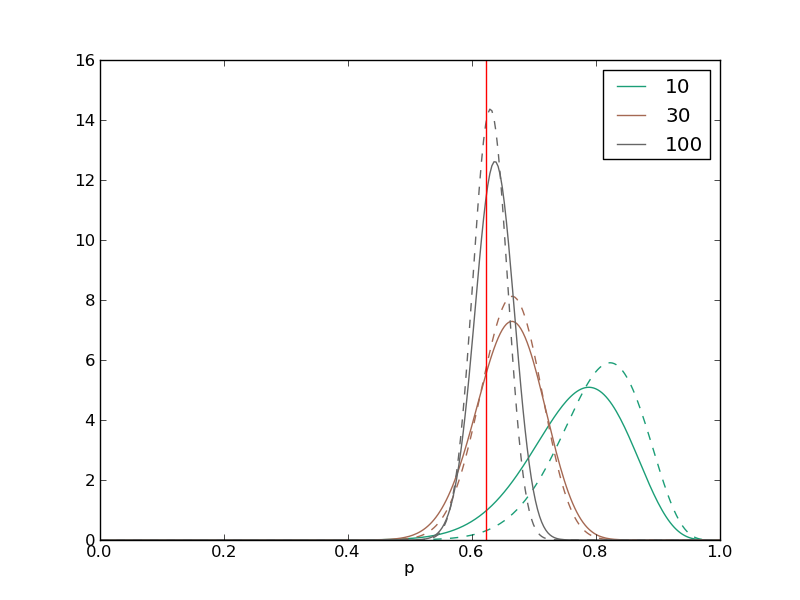
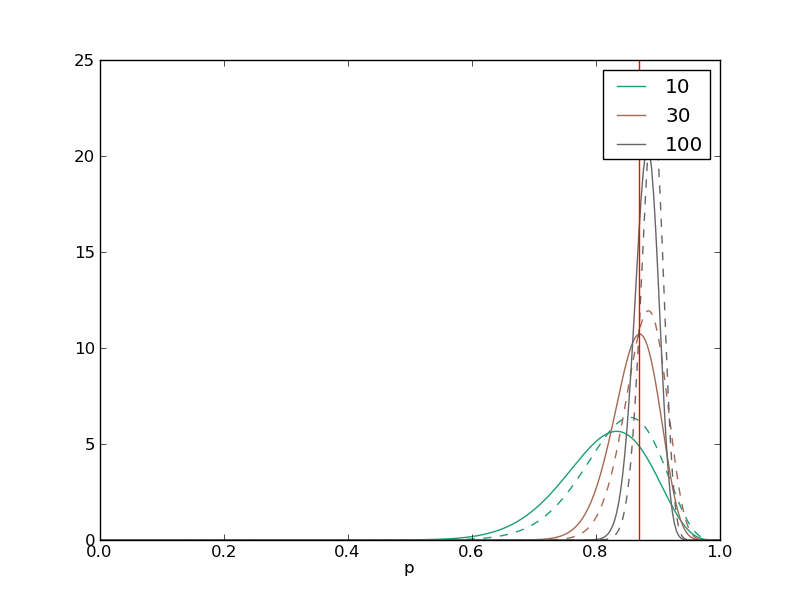
working variable N

diff --git a/binary_variable_pool.py b/binary_variable_pool.py
@@ -1,6 +1,7 @@
 
 # simple binary decision making
-# from a fixed pool of progenitors
+# from a variable pool of progenitors
+# (distribution of N progenitors per well)
 #
 # each data sample only indicates
 # the categories fulfilled: 1, 2, or 1&2
@@ -11,18 +12,25 @@ from scipy.misc import comb
 from scipy.stats import beta as beta_distr
 import matplotlib.cm as cm
 from scipy.special import beta as beta_func
+from scipy.signal import convolve2d
+from scipy.signal import fftconvolve
 
 # data set will be contained in the multi-dimensional array
 # D[0][1] = # trials with only category 2 fulfilled
 
-# simulate binary decision process with fixed progenitor pool
-# N: number of progenitors per trial
+# simulate binary decision process with variable progenitor pool
 # T: number of trials
 # p: probability a progenitor differentiates into state 1
-def binary_fixed_sim(N,T,p):
+# pN: array of probabilities of obtaining N progenitors in a well
+#     p(N = 0) should be equal to 0
+def binary_variable_sim(T,p,pN):
     D = np.zeros((2,2))
+    Ntotal = 0
     total = 0
     for i in xrange(T):
+        u = np.random.uniform()
+        # this is a hack to select N = i with prob pN[i]
+        N = min(np.array(range(len(pN)))[u < np.cumsum(pN)])
         t = np.random.binomial(N,p)
         if t == N:
             D[1][0] += 1
@@ -30,18 +38,24 @@ def binary_fixed_sim(N,T,p):
             D[0][1] += 1
         else:
             D[1][1] += 1
+        Ntotal += N
         total += t
-    return D,total
+    return D,Ntotal,total
 
-class BinaryFixedModel:
+class BinaryVariableModel:
     # in init perform fit
-    def __init__(self,D,N,alpha=1.5,beta=1.5):
+    # going to assume pN is already reduced (large N combined in single category)
+    # or approximated so that we're not looking over 
+    # an extremely large number of N possibilities
+    # 
+    # pN[i] should be the probability of N = i
+    def __init__(self,D,pN,alpha=1.5,beta=1.5):
         self.D = D
-        self.N = N
+        self.pN = pN
         # for bayesian inference provide alpha,beta for p prior
         self.alpha = alpha
         self.beta = beta
-        self.fit(D,N)
+        self.fit(D,pN)
 
     # perform convolution step
     def convolute(self,N1s,updater):
@@ -49,18 +63,57 @@ class BinaryFixedModel:
         cv = np.convolve(N1s,updater)
         return cv[:len(N1s)].copy() # don't change length of N1s
 
-    def fit(self,D,N):
+    def convolute2D(self,Ns,updater):
+        r,c = Ns.shape
+        # use the built in scipy convolve2D function
+        cv2D = convolve2d(Ns,updater)
+        return cv2D[:r,:c]
+        # try fftconvolve for speed
+        # 
+        # with appropriate thresholding of Ns, it is no longer incorrect
+        # 200 trials with 4 N options takes ~63.4 seconds to fit
+        # ~57 seconds are spent doing fftn and ifftn back and forth
+        # should be able to get a big speedup from a convolution power function
+        # that doesn't transform back over and over.
+        # cv2DF = fftconvolve(Ns,updater)
+        # return cv2DF[:r,:c]
+
+    def get_updater(self,config,pN):
+        Nmax = len(pN) - 1
+        updater = np.zeros((Nmax+1,Nmax+1)) # hold 2D prob weights to convolute
+        if config == (1,0):
+            for i in xrange(1,Nmax+1):
+                updater[i,i] += pN[i] # all trials contribute to N1
+        elif config == (0,1):
+            for i in xrange(1,Nmax+1):
+                updater[i,0] += pN[i] # all trials contribute to N but not N1
+        elif config == (1,1):
+            for i in xrange(2,Nmax+1):
+                w = 2 ** i - 2 # to weight combination trials
+                for j in xrange(1,i):
+                    updater[i,j] += pN[i] * comb(i,j) / w
+
+        return updater
+
+    def fit(self,D,pN):
         # get number of trials
         T = int(D.sum()) # sum over all elements in D
         self.T = T # save this
-        Ntotal = T * N
-        self.Ntotal = Ntotal # save this 
 
-        # preallocate array for N1 possibilities
-        N1s = np.zeros(Ntotal+1)
-        N1s[0] = 1.0
+        Nmax = len(pN) - 1 # maximum possible N value in a well
+        Ntotalmax = T * Nmax # maximum total possible N's summed up
+        self.Ntotalmax = Ntotalmax # save this 
 
-        w = 2 ** N - 2 # to weight combination trials
+        # preallocate array for (N,N1) possibilities
+        # 2D array with (Ntotalmax x Ntotalmax) possibilities
+        Ns = np.zeros((Ntotalmax + 1,Ntotalmax + 1))
+        Ns[0,0] = 1.0 # without any data full weight on (0,0)
+        
+        # precompute updaters
+        updaters = np.zeros((2,2,Nmax+1,Nmax+1))
+        for i in xrange(0,2):
+            for j in xrange(0,2):
+                updaters[i,j] = self.get_updater((i,j),pN)
 
         # iterate over data matrix
         it = np.nditer(D, flags=['multi_index'])
@@ -68,38 +121,32 @@ class BinaryFixedModel:
             dval = it[0]
             dindex = it.multi_index
 
-            # need to perform convolution on N1s for each recorded trial
+            # need to perform convolution on 2D Ns for each recorded trial
             for i in xrange(dval):
-                updater = np.zeros(N+1) # hold prob weights to convolute by
-                if dindex == (1,0):
-                    updater[N] += 1
-                elif dindex == (0,1):
-                    updater[0] += 1
-                elif dindex == (1,1):
-                    for j in xrange(1,N):
-                        updater[j] += comb(N,j) / w
-                else: # ignore (0,0)
-                    pass
-                N1s = self.convolute(N1s,updater)
-                N1s = N1s / sum(N1s) # just to maintain normalization
+                Ns = self.convolute2D(Ns,updaters[dindex])
+                Ns = Ns / Ns.sum() # just to maintain normalization
             it.iternext()
         
         # save result
-        self.N1s = N1s
+        self.Ns = Ns
+        
         # produce proper weights for beta distributions
-        bweights = np.zeros(Ntotal+1)
-        for i in xrange(len(N1s)):
-            if N1s[i] > 0:
-                bweights[i] = N1s[i] * beta_func(i + self.alpha,Ntotal-i + self.beta)
+        bweights = np.zeros((Ntotalmax+1,Ntotalmax+1))
+        for i in xrange(Ntotalmax+1):
+            for j in xrange(i+1): # can only have at most value N for N1
+                # with the fftconvolve this was overweighting things with beta_func
+                # values O(0.1), threshold 1e-15 works well for fft
+                if Ns[i,j] > 0:
+                    bweights[i,j] = Ns[i,j] * beta_func(j + self.alpha,i-j + self.beta)
 
         # sometimes beta weights are so ridiculously small everything just ends up 0
         # especially I suspect if N is off
-        if sum(bweights) > 0:
-            bweights = bweights / sum(bweights)
+        if bweights.sum() > 0:
+            bweights = bweights / bweights.sum()
         else:
-            bweights = N1s
+            bweights = Ns
         self.bweights = bweights
-        return N1s
+        return Ns
     
     def estimate_p(self):
         if hasattr(self,'exp_p'):
@@ -107,8 +154,9 @@ class BinaryFixedModel:
         # calculate P(heads|D)
         # using means of beta distributions
         exp_p = 0.0
-        for i in xrange(len(self.bweights)):
-            exp_p += self.bweights[i] * (i + self.alpha) / (self.Ntotal + self.alpha + self.beta)
+        for i in xrange(self.Ntotalmax + 1):
+            for j in xrange(i+1):
+                exp_p += self.bweights[i,j] * (j + self.alpha) / (i + self.alpha + self.beta)
         self.exp_p = exp_p
         return exp_p
 
@@ -119,24 +167,35 @@ class BinaryFixedModel:
         # calculate log-likelihood using this estimate
         # not exactly the max-likelihood estimate, but probably reasonable
 
+        # precalc psums
+        psum = np.ones((2,2))
+        psum[1,0] = sum([self.pN[i] * (exp_p ** i) for i in xrange(len(self.pN))])
+        psum[0,1] = sum([self.pN[i] * ((1-exp_p) ** i) for i in xrange(len(self.pN))])
+        psum[1,1] = sum([self.pN[i] * (1 - (exp_p ** i) - ((1 - exp_p) ** i)) for i in xrange(len(self.pN))])
+
         # iterate over data matrix
         loglik = 0.0
         it = np.nditer(self.D, flags=['multi_index'])
         while not it.finished:
             dval = it[0]
             dindex = it.multi_index
-
-            if dindex == (1,0):
-                loglik += dval*self.N*np.log(exp_p)
-            elif dindex == (0,1):
-                loglik += dval*self.N*np.log(1-exp_p)
-            elif dindex == (1,1):
-                loglik += dval*np.log(1 - exp_p ** self.N - (1 - exp_p) ** self.N)
-            else: # ignore (0,0)
-                pass
+            loglik += dval*np.log(psum[dindex])
             it.iternext()
+
         self.loglik = loglik
         return loglik
+
+# some basic tests
+p = np.random.uniform()
+pN = np.array([0.0,0.25,0.25,0.25,0.25])
+D,Nt,N1 = binary_variable_sim(50,p,pN)
+
+C = BinaryVariableModel(D,pN)
+print p
+# print D,Nt,N1
+print C.estimate_p()
+print np.unravel_index(C.bweights.argmax(),C.bweights.shape)
+'''
 
 # N is number of progenitors
 # test data set with N = 3, T = 100, p = 0.5
@@ -189,6 +248,8 @@ plt.title('log-likelihood')
 plt.xlabel('N')
 f.savefig('loglik.png')
 plt.show()
+'''
+
 
 '''
 # now plot distribution of N's predicted

diff --git a/differentiation_simulation.py b/differentiation_simulation.py
@@ -6,5 +6,15 @@
 # and discrete time branching processes
 # with different waiting time distributions
 # and offspring distributions.
+#
+# each with different # of potential offspring
 
 
+# generational galton-watson
+
+# continuous time poisson process
+
+# continuous time lognormal waiting
+
+# continuous time lognormal waiting for division
+# with poisson differentation process?
